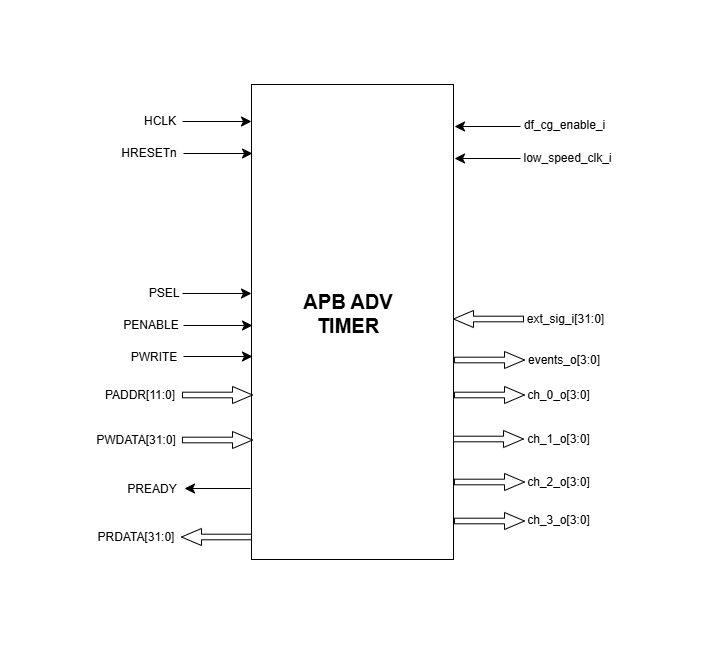
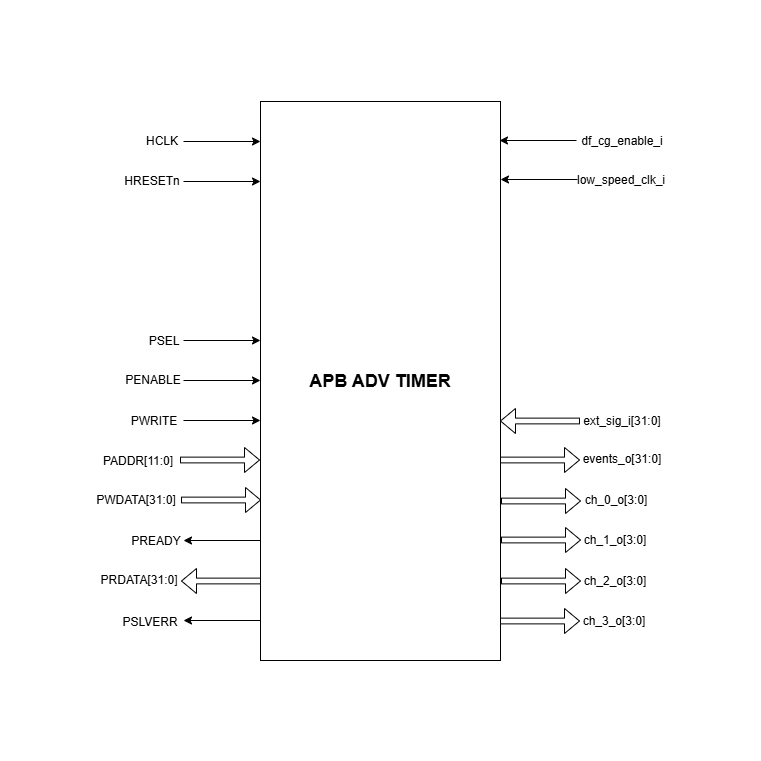
updated the pin diagrams

diff --git a/docs/doc-src/ip-blocks/apb_timer.rst b/docs/doc-src/ip-blocks/apb_timer.rst
@@ -194,6 +194,79 @@ can be run in both 32 bit mode and 64 bit mode.
 
 -  Initial counter value can be configured to start the timer counter value by configuring the TIMER_VAL_LO or TIMER_VAL_HI register
 
+System Architecture:
+--------------------
+
+The figure below depicts the connections between the APB TIMER and rest of the modules in Core-V-MCU:-
+
+.. figure:: apb_timer_soc_connections.png
+   :name: APB_TIMER_SoC_Connections
+   :align: center
+   :alt:
+
+   APB TIMER Core-V-MCU connections diagram
+
+- The event_lo_i and event_hi_i input to the APB_TIMER is provided by APB_EVENT_GENERATOR. 
+- APB_TIMER process this input signals based on the various CSR configurations.
+- APB_TIMER generate few output event signals that are further parsed as interrupts to the Core complex.
+- APB_TIMER receives the input stop_timer_i from Core complex that can stop the operations of APB TIMER.
+
+Programmers View:
+-----------------
+APB_TIMER has 4 Timers and below programming model is followed:  
+
+Initial Configurations:
+~~~~~~~~~~~~~~~~~~~~~~~
+There are CSR bitfields in the APB advanced timer that are required to be configured before any operations are initiated. 
+
+Timer module specific configurations:
+^^^^^^^^^^^^^^^^^^^^^^^^^^^^^^^^^^^^^
+
+As we have 4 Timer modules. Each timer has to be configured with appropriate values.
+
+- Configure input clock source using CLKSEL bitfield in the REG_TIM[0-3]_CFG.
+- Configure input trigger mode using MODE bitfield in the REG_TIM[0-3]_CFG.
+- Configure which input has to selected using INSEL bitfield in the REG_TIM[0-3]_CFG.
+- Configure prescaler value for scaling down the frequency using PRESC bitfield in the REG_TIM[0-3]_CFG.
+- Configure sawtooth mode through which the updown down counter operates using SAWTOOTH bitfield in the REG_TIM[0-3]_CFG.
+- Configure updown counter start value and end value using COUNT_START and COUNT_END bitfield respectively in the REG_TIM[0-3]_TH.
+- Configure comparator 0 operation and comparator 0 threshold using COMP_OP and COMP_THRESHOLD bitfield respectively in the REG_TIM[0-3]_CH0_TH.
+- Configure comparator 1 operation and comparator 1 threshold using COMP_OP and COMP_THRESHOLD bitfield respectively in the REG_TIM[0-3]_CH1_TH.
+- Configure comparator 2 operation and comparator 2 threshold using COMP_OP and COMP_THRESHOLD bitfield respectively in the REG_TIM[0-3]_CH2_TH.
+- Configure comparator 3 operation and comparator 3 threshold using COMP_OP and COMP_THRESHOLD bitfield respectively in the REG_TIM[0-3]_CH3_TH.
+
+Common configurations:
+^^^^^^^^^^^^^^^^^^^^^^
+
+These configurations are common for 4 TIMERs. Typically these are used to enable or disbale output events, clock for TIMERs and select the output events from a group of 16 PWM events.  
+
+- Configure output select event enable that controls to enable or disable any of the 4 bit output events_o using OUT_SEL_EVT_ENABLE bitfield in the REG_EVENT_CFG.
+- Configure output event 0 select value which is used to select an event from 16 bit PWM output using using OUT_SEL_EVT0 bitfield in the REG_EVENT_CFG.
+- Configure output event 1 select value which is used to select an event from 16 bit PWM output using using OUT_SEL_EVT1 bitfield in the REG_EVENT_CFG.
+- Configure output event 2 select value which is used to select an event from 16 bit PWM output using using OUT_SEL_EVT2 bitfield in the REG_EVENT_CFG.
+- Configure output event 3 select value which is used to select an event from 16 bit PWM output using using OUT_SEL_EVT3 bitfield in the REG_EVENT_CFG.
+- Enable or disable clocks for each TIMER using using CLK_ENABLE bitfield in the REG_CH_EN.
+
+
+Control configurations/operations:
+~~~~~~~~~~~~~~~~~~~~~~~~~~~~~~~~~~~
+
+There are CSR bitfields in the APB advanced timer which controls operations of each of the timer module and its sub modules. 
+
+- set the START bitfield in the REG_TIM[0-3]_CMD to start the Timer and its sub modules input stage, prescaler, updown counter and comparators.
+- set the STOP bitfield in the REG_TIM[0-3]_CMD to stop/halt/pause the the Timer and its sub modules input stage, prescaler, updown counter and comparators.
+- set the UPDATE bitfield in the REG_TIM[0-3]_CMD to Re-Initialization with the latest CSRs of the the Timer and its sub modules input stage, prescaler, updown counter and comparators.
+- set the RESET bitfield in the REG_TIM[0-3]_CMD to Reset the the Timer and its sub modules input stage, prescaler, updown counter and comparators.
+- set the ARM bitfield in the REG_TIM[0-3]_CMD to modify the inputs in the input stage.
+
+Status configurations:
+~~~~~~~~~~~~~~~~~~~~~~
+
+The counter values of all the 4 Timers can be read via the following CSR bitfields in the APB advanced timer. 
+
+- Use the T[0-3]_COUNTER bitfields in the respective REG_TIM[0-3]_COUNTER to read the values of counter maintained by updowncounter for each of the Timer.
+
+
 **APB Timer CSRs**
 ------------------
 
@@ -339,3 +412,42 @@ can be run in both 32 bit mode and 64 bit mode.
 | TIMER_START_HI  | 31:0 |  WS  |   0x0   | Write strobe address for    |
 |                 |      |      |         | resetting the high counter  |
 +-----------------+------+------+---------+-----------------------------+
+
+
+Pin Diagram
+-----------
+
+The figure below represents the input and output pins for the APB Advanced Timer:-
+
+.. figure:: apb_timer_pin_diagram.png
+   :name: APB_Advanced_Timer_Pin_Diagram
+   :align: center
+   :alt:
+   
+   APB Timer Pin Diagram
+
+Clock and Reset Signals
+~~~~~~~~~~~~~~~~~~~~~~~
+  - HCLK: System clock input
+  - HRESETn: Active-low reset input
+
+APB Interface Signals
+~~~~~~~~~~~~~~~~~~~~~
+  - PADDR[11:0]: APB address bus input
+  - PSEL: APB peripheral select input
+  - PENABLE: APB enable input
+  - PWRITE: APB write control input (high for write, low for read)
+  - PWDATA[31:0]: APB write data bus input
+  - PREADY: APB ready output to indicate transfer completion
+  - PRDATA[31:0]: APB read data bus output
+  - PSLVERR: APB slave error
+
+APB Timer Interface Signals
+~~~~~~~~~~~~~~~~~~~~~~~~~~~~
+  - low_speed_clk_i: Reference clock input
+  - stop_timer_i: Input signal to stop timer
+  - event_lo_i: Input event for the timer low
+  - event_hi_i: Input event for the timer high
+  - irq_lo_o: Output interrupt from timer low
+  - irq_hi_o: Output interrupt from timer high
+  - busy_o: Output busy signal that signifies that any one of the timer is active

diff --git a/docs/doc-src/ip-blocks/apb_adv_timer.rst b/docs/doc-src/ip-blocks/apb_adv_timer.rst
@@ -394,7 +394,7 @@ The figure below depicts the connections between the APB ADVANCED TIMER and rest
 
    APB ADVANCED TIMER Core-V-MCU connections diagram
 
-- The ext_sig_i input to the APB_ADVANCED_TIMER is directly connected to the APB_GPIO. 
+- The ext_sig_i input to the APB_ADVANCED_TIMER is provided by the APB_GPIO. 
 - APB_ADVANCED_TIMER process this input signals based on the various CSR configurations.
 - APB_ADVANCED_TIMER generate few output event signals that are further parsed as interrupts to the Core complex.
 - APB_ADVANCED_TIMER generates PWM outputs which are parsed to the external devices through I/O mux.
@@ -1571,6 +1571,39 @@ REG_TIM3_COUNTER
 +------------+------+-----------------+--------+------------------------+
 
 
+REG_EVENT_CFG 
+~~~~~~~~~~~~~
+  - Address Offset=0x100
+
++--------------------+-------+-----------------+--------+-------------------------------------------------------------------------------------------+
+| Field              | Bits  | Default Value   | Access | Description                                                                               |
++====================+=======+=================+========+===========================================================================================+
+| RESERVED           | 31:20 | 0               | --     | Reserved                                                                                  |
++--------------------+-------+-----------------+--------+-------------------------------------------------------------------------------------------+
+| OUT_SEL_EVT_ENABLE | 19:16 | 0               | RW     | Output event select ENABLE. Each bit represents an event enable for 4 bit event_o output. |
++--------------------+-------+-----------------+--------+-------------------------------------------------------------------------------------------+
+| OUT_SEL_EVT3       | 15:12 | 0               | RW     | Output event select 3 from a group of 16 PWM outputs                                      |
++--------------------+-------+-----------------+--------+-------------------------------------------------------------------------------------------+
+| OUT_SEL_EVT2       | 11:8  | 0               | RW     | Output event select 2 from a group of 16 PWM outputs                                      |
++--------------------+-------+-----------------+--------+-------------------------------------------------------------------------------------------+
+| OUT_SEL_EVT1       | 7:4   | 0               | RW     | Output event select 1 from a group of 16 PWM outputs                                      |
++--------------------+-------+-----------------+--------+-------------------------------------------------------------------------------------------+
+| OUT_SEL_EVT0       | 3:0   | 0               | RW     | Output event select 1 from a group of 16 PWM outputs                                      |
++--------------------+-------+-----------------+--------+-------------------------------------------------------------------------------------------+
+
+
+REG_CH_EN 
+~~~~~~~~~~~~~
+  - Address Offset=0x104
+
++------------+-------+-----------------+--------+---------------------------------------------------------------------------------------------------+
+| Field      | Bits  | Default Value   | Access | Description                                                                                       |
++============+=======+=================+========+===================================================================================================+
+| RESERVED   | 31:4  | 0               | --     | Reserved                                                                                          |
++------------+-------+-----------------+--------+---------------------------------------------------------------------------------------------------+
+| CLK_ENABLE | 3:0   | 0               | RW     | Each bit acts as clock enable for each timer. For eg: if 2nd bit is set Timer 2 clock is enabled. |
++------------+-------+-----------------+--------+---------------------------------------------------------------------------------------------------+
+
 Firmware Guidelines
 -------------------
 
@@ -1663,6 +1696,7 @@ APB Interface Signals
   - PWDATA[31:0]: APB write data bus input
   - PREADY: APB ready output to indicate transfer completion
   - PRDATA[31:0]: APB read data bus output
+  - PSLVERR: APB slave error
 
 APB Advanced Timer Interface Signals
 ~~~~~~~~~~~~~~~~~~~~~~~~~~~~~~~~~~~~
